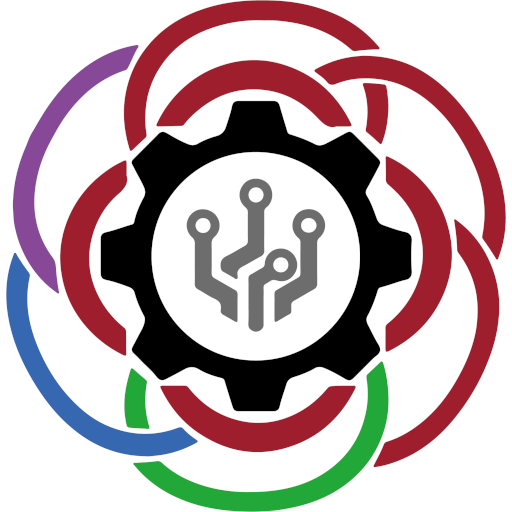
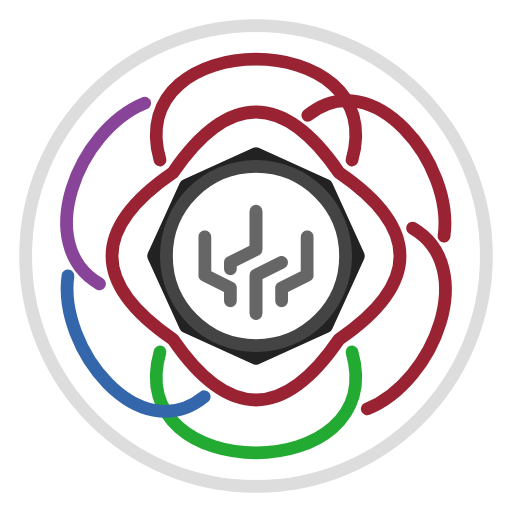
-

diff --git a/index.html b/index.html
@@ -5,6 +5,7 @@
 	<meta name="viewport" content="width=device-width,initial-scale=1">
 	<title>SAZANKA Robitics Home</title>
 	<meta name="description" content="SAZANKA Roboticsのホームページです">
+	<link rel="icon" type="image/xml+svg" href="img/icon.svg">
 	<link rel="icon" type="image/png" href="img/icon.png">
 	<meta property="og:type" content="website">
 	<meta property="og:title" content="SAZANKA Robitics Home">
